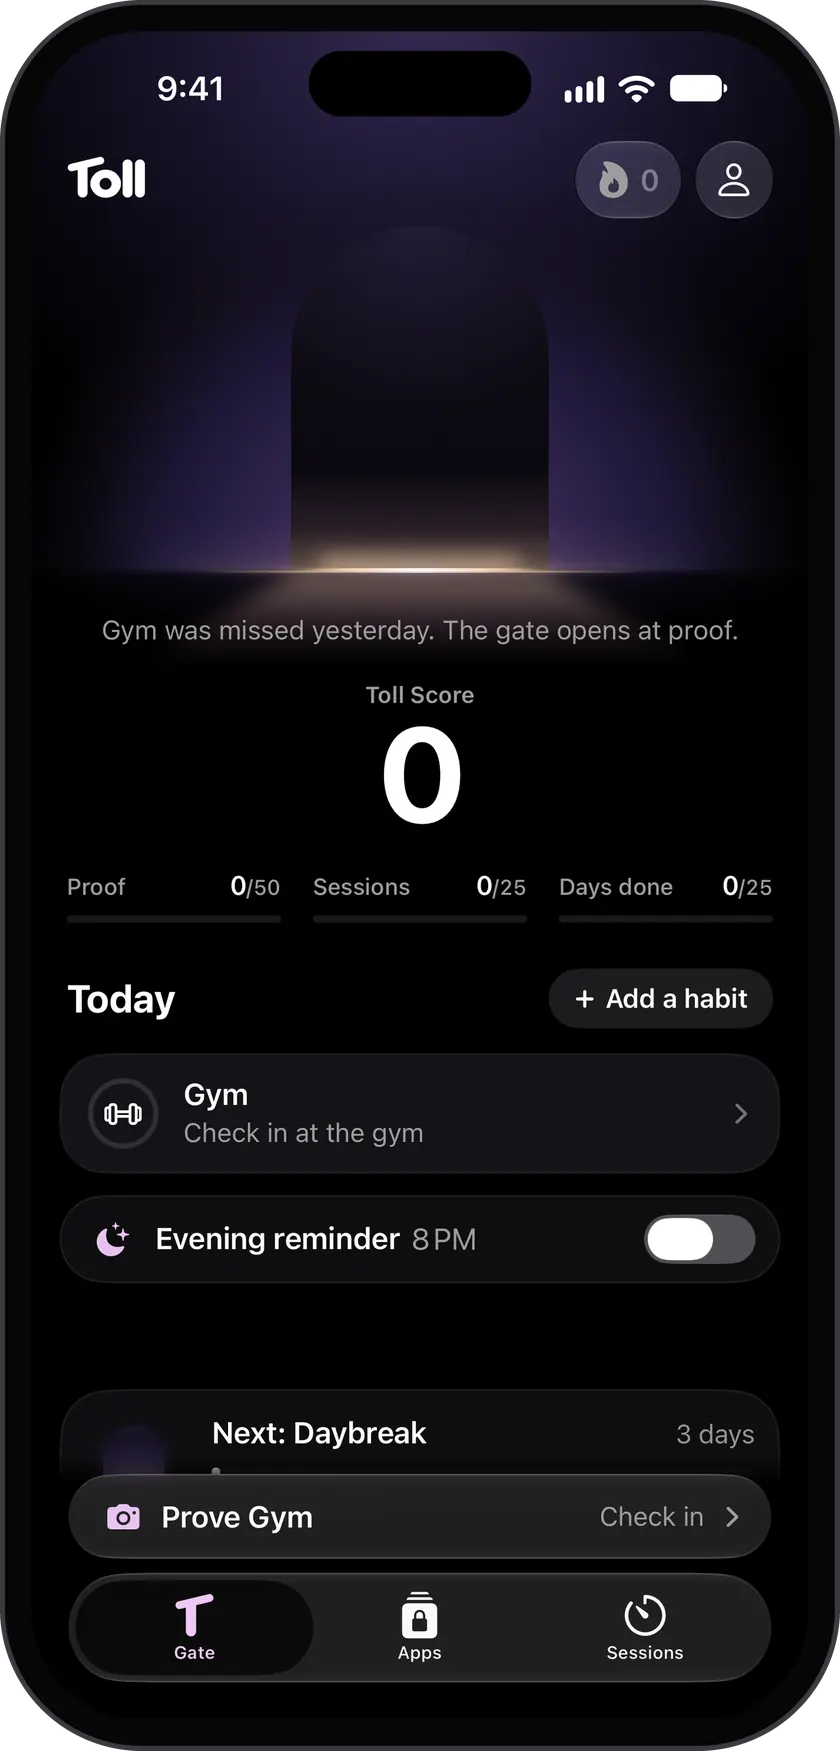
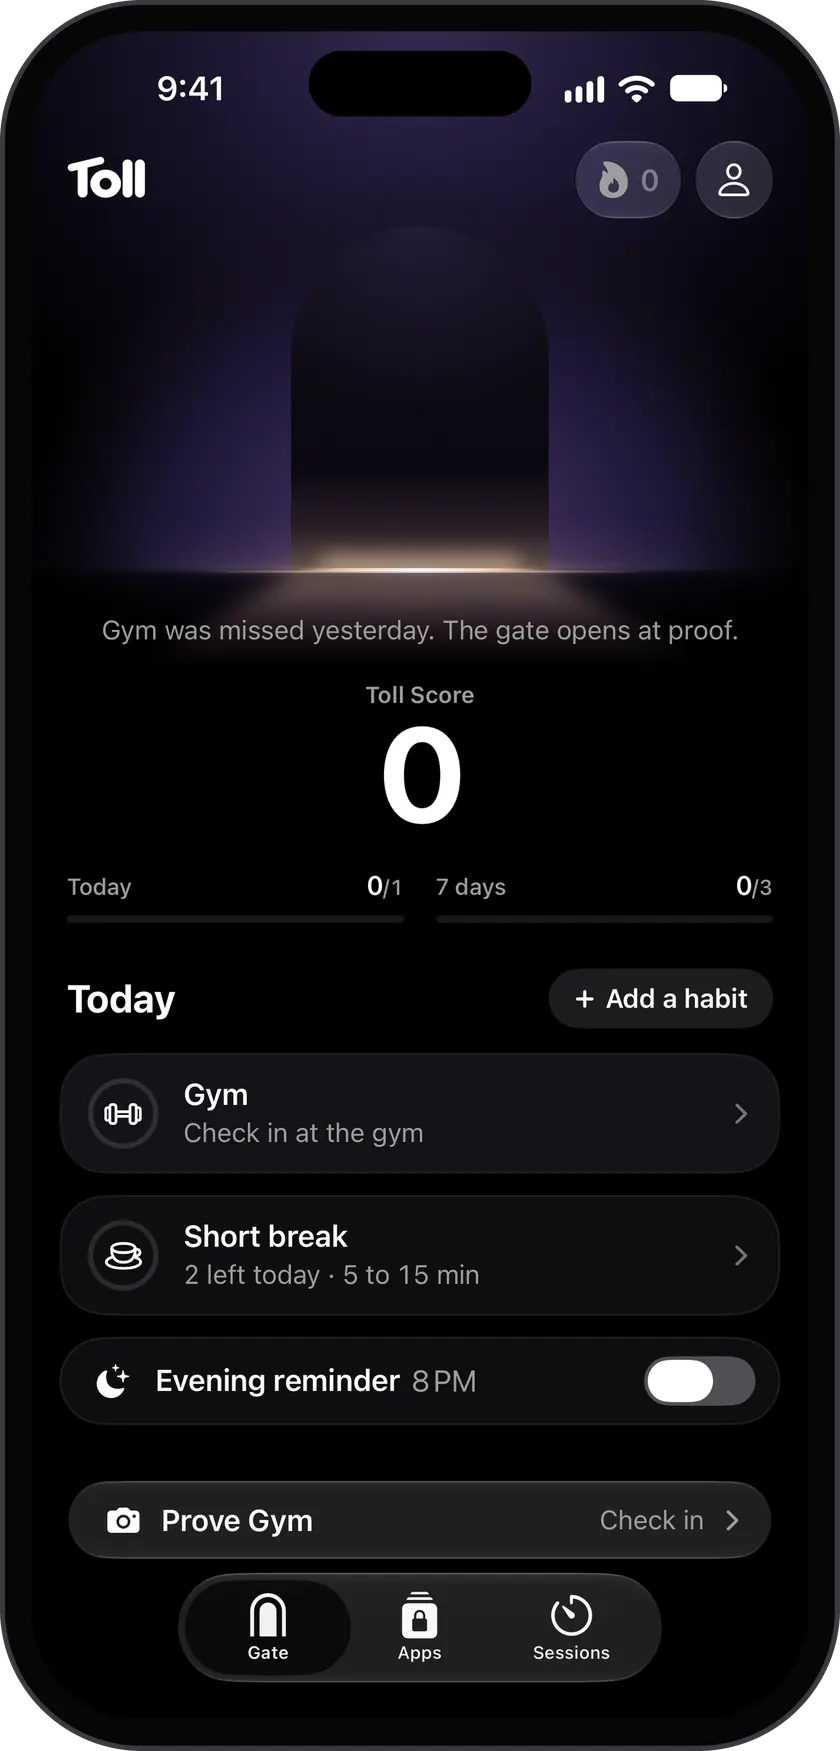
Toll 1.3: the new score and every picture from 1.3

diff --git a/index.html b/index.html
@@ -64,7 +64,7 @@
         </div>
         <ol class="steps">
           <li class="step">
-            <img class="phone rise" src="assets/screens/habit.webp" srcset="assets/screens/habit.webp 600w, assets/screens/habit-840.webp 840w" sizes="(max-width: 899px) 248px, 272px" width="600" height="1251" loading="lazy" decoding="async" alt="New habit in Toll: a grid of kinds from Gym, Meals and Study to Water and Your own, the days of the week, and the gym's proof, a check-in and a check-out 30 minutes later.">
+            <img class="phone rise" src="assets/screens/habit.webp" srcset="assets/screens/habit.webp 600w, assets/screens/habit-840.webp 840w" sizes="(max-width: 899px) 248px, 272px" width="600" height="1251" loading="lazy" decoding="async" alt="New habit in Toll: a grid of kinds from Gym, Meals and Study to Water and Your own, the days of the week, and the gym's proof, a check-in and a check-out 30 minutes later, with Two photos switched on.">
             <div class="card glass glass-clear rise">
               <span class="step-num" aria-hidden="true">1</span>
               <h3><span class="sr">Step 1: </span>Choose the apps and the habit</h3>
@@ -80,7 +80,7 @@
             </div>
           </li>
           <li class="step">
-            <img class="phone rise" src="assets/screens/open.webp" srcset="assets/screens/open.webp 600w, assets/screens/open-840.webp 840w" sizes="(max-width: 899px) 248px, 272px" width="600" height="1251" loading="lazy" decoding="async" alt="Gate open in Toll: Your apps are back. Tomorrow starts open. Meals proved at 9:36 AM, and 15 days in a row.">
+            <img class="phone rise" src="assets/screens/open.webp" srcset="assets/screens/open.webp 600w, assets/screens/open-840.webp 840w" sizes="(max-width: 899px) 248px, 272px" width="600" height="1251" loading="lazy" decoding="async" alt="Gate open in Toll: Your apps are back. Tomorrow starts open. Meals proved at 9:13 AM, and 15 days in a row.">
             <div class="card glass glass-clear rise">
               <span class="step-num" aria-hidden="true">3</span>
               <h3><span class="sr">Step 3: </span>The gate opens</h3>
@@ -110,11 +110,11 @@
         </div>
         <div class="pair rise">
           <figure>
-            <img class="phone" src="assets/screens/home.webp" srcset="assets/screens/home.webp 600w, assets/screens/home-840.webp 840w" sizes="(max-width: 639px) 44vw, 272px" width="600" height="1251" loading="lazy" decoding="async" alt="Toll's Home with the gate open: the doorway full of dawn light, The gate stays open today, Toll Score 68, Meals at 2 of 3 plates, and Walk the dog and Gym done.">
+            <img class="phone" src="assets/screens/home.webp" srcset="assets/screens/home.webp 600w, assets/screens/home-840.webp 840w" sizes="(max-width: 639px) 44vw, 272px" width="600" height="1251" loading="lazy" decoding="async" alt="Toll's Home with the gate open: the doorway full of dawn light, The gate stays open today, Toll Score 100 with 3 of 4 habits today and 27 of 27 kept over 7 days, Meals at 2 of 3 plates, Walk the dog and Gym done, and Prove Meals at the bottom.">
             <figcaption><strong>Open</strong>While you show up</figcaption>
           </figure>
           <figure>
-            <img class="phone" src="assets/screens/shut.webp" srcset="assets/screens/shut.webp 600w, assets/screens/shut-840.webp 840w" sizes="(max-width: 639px) 44vw, 272px" width="600" height="1251" loading="lazy" decoding="async" alt="Toll's Home the day after a miss: the doorway closed under a violet dusk sky, Gym was missed yesterday. The gate opens at proof, and a Toll Score of 0.">
+            <img class="phone" src="assets/screens/shut.webp" srcset="assets/screens/shut.webp 600w, assets/screens/shut-840.webp 840w" sizes="(max-width: 639px) 44vw, 272px" width="600" height="1251" loading="lazy" decoding="async" alt="Toll's Home the day after a miss: the doorway closed under a violet dusk sky, Gym was missed yesterday. The gate opens at proof, a Toll Score of 0, and Prove Gym at the bottom.">
             <figcaption><strong>Shut</strong>The day after a miss</figcaption>
           </figure>
         </div>
@@ -142,7 +142,7 @@
               </div>
             </div>
             <div class="shot">
-              <img class="phone" src="assets/screens/apps.webp" srcset="assets/screens/apps.webp 600w, assets/screens/apps-840.webp 840w" sizes="(min-width: 900px) 280px, 262px" width="600" height="1251" loading="lazy" decoding="async" alt="Apps in Toll: the rules as photo cards, Meals at 2 of 3 plates, a Workday from 9:00 AM to 5:00 PM and Gym done, then Behind the gate and Outside the gate.">
+              <img class="phone" src="assets/screens/apps.webp" srcset="assets/screens/apps.webp 600w, assets/screens/apps-840.webp 840w" sizes="(min-width: 900px) 280px, 262px" width="600" height="1251" loading="lazy" decoding="async" alt="Apps in Toll: the rules as photo cards, Meals at 2 of 3 plates, a Workday from 9:00 AM to 5:00 PM and Gym done, then Behind the gate with Choose the apps, and Outside the gate with Always open and Rest days.">
             </div>
           </article>
 
@@ -150,15 +150,15 @@
             <h3>Focus sessions</h3>
             <p>Shut the gate for 15 minutes to 3 hours, proof or not. It opens by itself; opening early takes a deliberate hold.</p>
             <div class="shot">
-              <img class="phone" src="assets/screens/sessions.webp" srcset="assets/screens/sessions.webp 600w, assets/screens/sessions-840.webp 840w" sizes="262px" width="600" height="1251" loading="lazy" decoding="async" alt="Sessions in Toll: 25:00 over a lake at night, a dial of minutes and a Start button, then moments such as Heads down for 50 minutes, and the week.">
+              <img class="phone" src="assets/screens/sessions.webp" srcset="assets/screens/sessions.webp 600w, assets/screens/sessions-840.webp 840w" sizes="262px" width="600" height="1251" loading="lazy" decoding="async" alt="Sessions in Toll: 25:00 over a lake at night, a dial of minutes and a Start button, then moments such as Heads down for 50 minutes, and the week's sessions.">
             </div>
           </article>
 
           <article class="card glass tile tile-photo tile-score rise">
             <h3>Toll Score</h3>
-            <p>How the day went, out of 100: proof, sessions and the last seven days. Under it, the week's proofs and sessions.</p>
+            <p>Out of 100: the share of your habits kept over the last seven days. Rest days and paused habits don't count.</p>
             <div class="shot">
-              <img class="phone" src="assets/screens/score.webp" srcset="assets/screens/score.webp 600w, assets/screens/score-840.webp 840w" sizes="262px" width="600" height="1251" loading="lazy" decoding="async" alt="Toll Score in Toll: 68, down 10 since yesterday, made of 43 for proof, 0 for sessions and 25 for the last 7 days, then 6 of 7 proofs and the week's sessions.">
+              <img class="phone" src="assets/screens/score.webp" srcset="assets/screens/score.webp 600w, assets/screens/score-840.webp 840w" sizes="262px" width="600" height="1251" loading="lazy" decoding="async" alt="Toll Score in Toll: 100, with 3 of 4 habits today and 27 of 27 kept over the last 7 days, a Prove button for the plate Meals still needs, and every day of the week kept.">
             </div>
           </article>
 
@@ -166,7 +166,7 @@
             <h3>The gate screen</h3>
             <p>Why the gate is shut, when it opens, and a line you choose: your own reason, a short poem, the Gospels, the Quran and more.</p>
             <div class="shot">
-              <img class="phone" src="assets/screens/gatescreen.webp" srcset="assets/screens/gatescreen.webp 600w, assets/screens/gatescreen-840.webp 840w" sizes="262px" width="600" height="1251" loading="lazy" decoding="async" alt="The gate screen's words in Toll: a preview reading Gate opens at proof with your own reason quoted under it, then the sets of words to choose from.">
+              <img class="phone" src="assets/screens/gatescreen.webp" srcset="assets/screens/gatescreen.webp 600w, assets/screens/gatescreen-840.webp 840w" sizes="262px" width="600" height="1251" loading="lazy" decoding="async" alt="The gate screen's words in Toll: a preview with the sun behind a shut door, Gate opens at proof and your own reason quoted under it, then the sets of words to choose from.">
             </div>
           </article>
 
